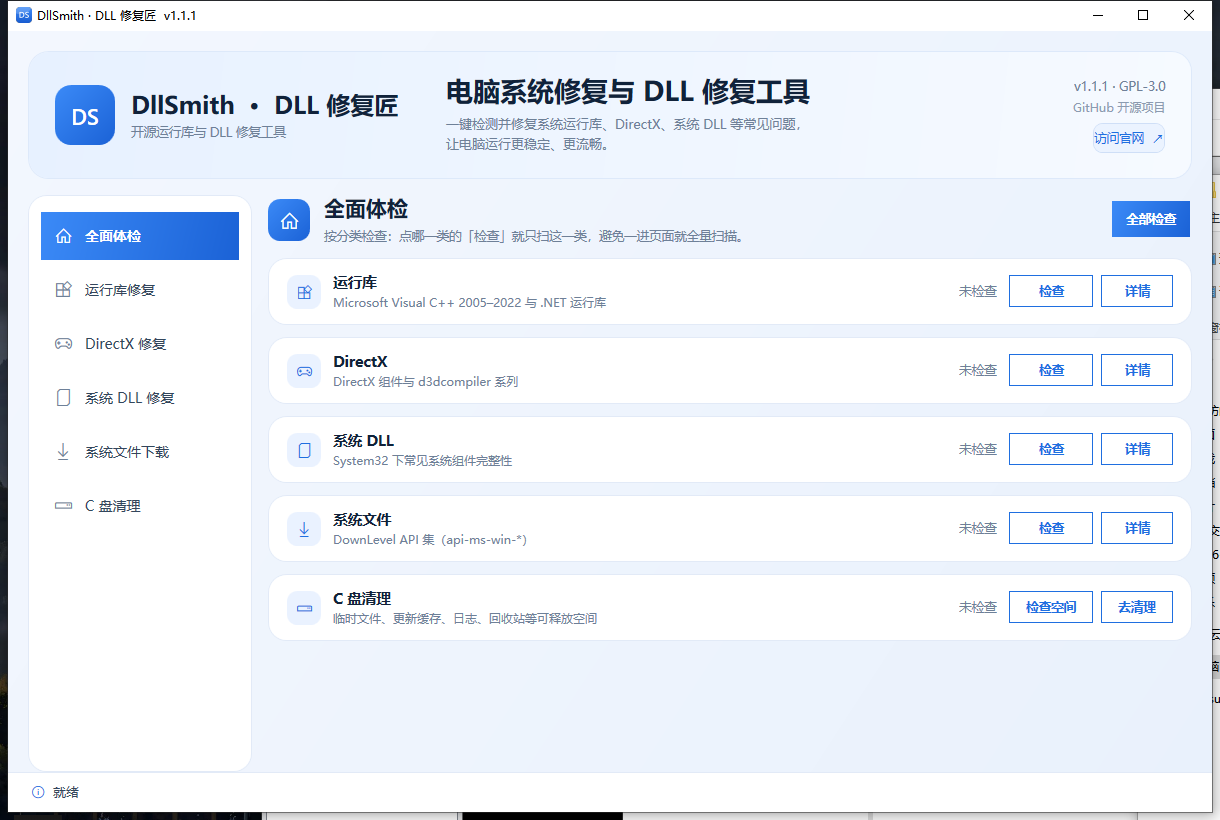
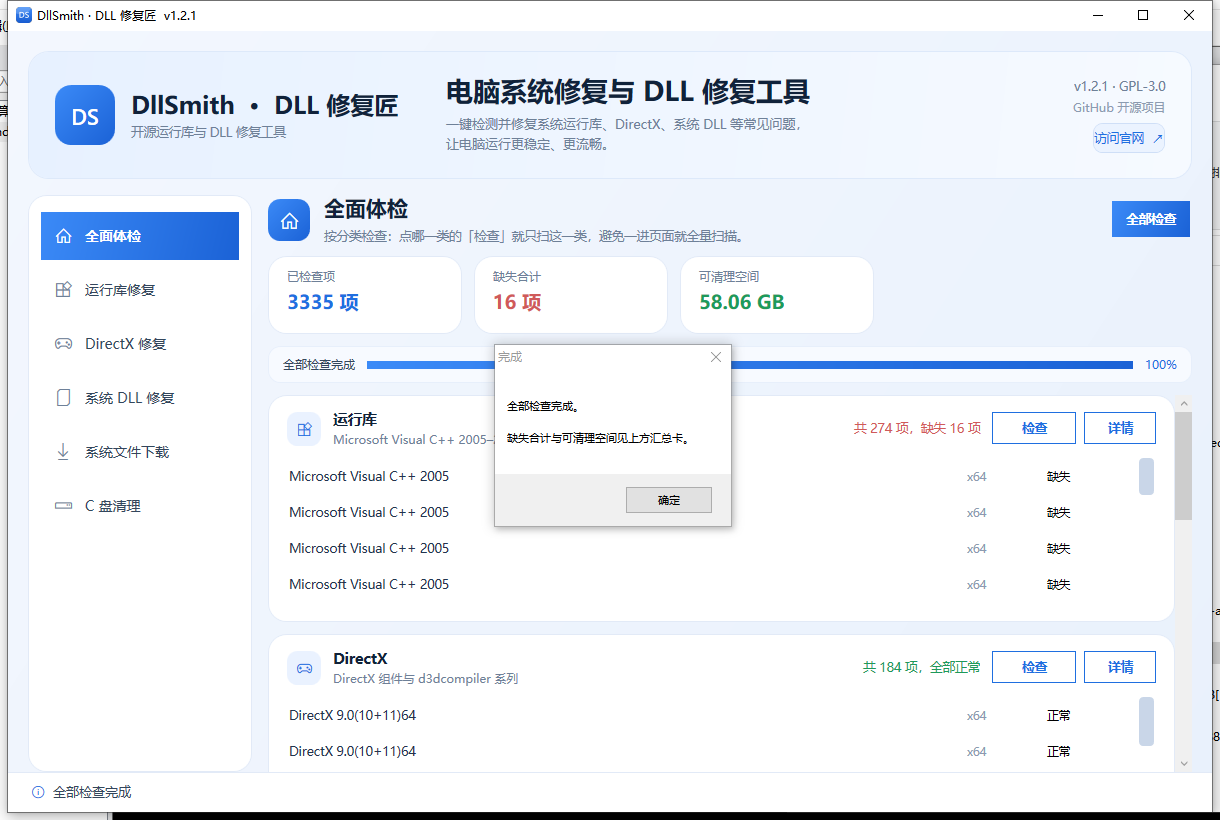
feat: 1.2.1 全面体检汇总卡与全部检查进度条

diff --git a/src/Overview.cs b/src/Overview.cs
@@ -1,12 +1,11 @@
 // ============================================================================
 //  DllSmith — 全面体检（分类总览）
 //  文件：Overview.cs
-//  目的：不再一进页面就全量扫描。按分类（运行库 / DirectX / 系统 DLL / 系统文件 /
-//        C 盘清理）分块展示，点哪个「检查」就只查那一类；结果就地展开。
+//  要点：不自动扫描；分类卡片各自「检查」；顶部汇总（检查项 / 缺失 / 可释放）
+//        + 全部检查时的总进度条。
 // ============================================================================
 using System;
 using System.Collections.Generic;
-using System.Linq;
 using System.Threading;
 using System.Windows;
 using System.Windows.Controls;
@@ -19,14 +18,13 @@ namespace DllFix.Ui
 {
     public class OverviewPage : UserControl, IProgressHost
     {
-        // 单个分类
         private class Section
         {
             public string Title;
             public string Glyph;
             public string Desc;
-            public Func<List<CatalogItem>> Loader;   // null = C 盘清理（特殊处理）
-            public int PageIndex = -1;               // 「详情」跳转的页面序号
+            public Func<List<CatalogItem>> Loader;   // null = C 盘清理
+            public int PageIndex = -1;
 
             public Border Card;
             public TextBlock Status;
@@ -34,6 +32,8 @@ namespace DllFix.Ui
             public Button GoBtn;
             public ListBox List;
             public bool Busy;
+            public bool Checked;
+            public bool Checking;
             public int Missing;
             public int Total;
             public long CleanBytes;
@@ -41,6 +41,12 @@ namespace DllFix.Ui
 
         private readonly List<Section> _sections = new List<Section>();
         private readonly Button _all = new Button();
+        private readonly ProgressBar _bar = new ProgressBar();
+        private readonly TextBlock _barText = new TextBlock();
+        private readonly Border _barHost = new Border();
+        private readonly TextBlock _sumTotal = new TextBlock();
+        private readonly TextBlock _sumMissing = new TextBlock();
+        private readonly TextBlock _sumFree = new TextBlock();
         private bool _busyAll;
 
         public event Action<string, int, bool> StatusChanged;
@@ -49,6 +55,7 @@ namespace DllFix.Ui
         public OverviewPage()
         {
             Build();
+            UpdateSummary();
         }
 
         private void Report(string text, int percent, bool busy)
@@ -66,8 +73,10 @@ namespace DllFix.Ui
         private void Build()
         {
             Grid root = new Grid();
-            root.RowDefinitions.Add(new RowDefinition { Height = GridLength.Auto });
-            root.RowDefinitions.Add(new RowDefinition());
+            root.RowDefinitions.Add(new RowDefinition { Height = GridLength.Auto });   // 页头
+            root.RowDefinitions.Add(new RowDefinition { Height = GridLength.Auto });   // 汇总卡
+            root.RowDefinitions.Add(new RowDefinition { Height = GridLength.Auto });   // 进度条
+            root.RowDefinitions.Add(new RowDefinition());                              // 分类列表
 
             // 页头
             Grid head = new Grid();
@@ -111,8 +120,63 @@ namespace DllFix.Ui
             _all.Click += delegate { CheckAll(); };
             Grid.SetColumn(_all, 1);
             head.Children.Add(_all);
-            head.Margin = new Thickness(0, 0, 0, 14);
+            head.Margin = new Thickness(0, 0, 0, 12);
             root.Children.Add(head);
+
+            // 汇总卡
+            StackPanel stats = new StackPanel { Orientation = Orientation.Horizontal, Margin = new Thickness(0, 0, 0, 12) };
+            stats.Children.Add(StatCard("已检查项", _sumTotal, Color.FromRgb(0x1F, 0x6F, 0xE0)));
+            stats.Children.Add(StatCard("缺失合计", _sumMissing, Color.FromRgb(0xD0, 0x5A, 0x5A)));
+            stats.Children.Add(StatCard("可清理空间", _sumFree, Color.FromRgb(0x1E, 0x9A, 0x5A)));
+            Grid.SetRow(stats, 1);
+            root.Children.Add(stats);
+
+            // 进度条（仅检查时显示）
+            _barHost.Background = new SolidColorBrush(Color.FromRgb(0xF7, 0xFA, 0xFF));
+            _barHost.BorderBrush = new SolidColorBrush(Color.FromRgb(0xE7, 0xEF, 0xFB));
+            _barHost.BorderThickness = new Thickness(1);
+            _barHost.CornerRadius = new CornerRadius(12);
+            _barHost.Padding = new Thickness(14, 10, 14, 10);
+            _barHost.Margin = new Thickness(0, 0, 0, 12);
+            _barHost.Visibility = Visibility.Collapsed;
+
+            Grid pg = new Grid();
+            pg.ColumnDefinitions.Add(new ColumnDefinition { Width = GridLength.Auto });
+            pg.ColumnDefinitions.Add(new ColumnDefinition());
+            pg.ColumnDefinitions.Add(new ColumnDefinition { Width = GridLength.Auto });
+
+            _barText.Text = "准备检查…";
+            _barText.FontSize = 12;
+            _barText.Foreground = Theme.TextBody;
+            _barText.VerticalAlignment = VerticalAlignment.Center;
+            _barText.Margin = new Thickness(0, 0, 12, 0);
+            pg.Children.Add(_barText);
+
+            _bar.Height = 8;
+            _bar.Minimum = 0;
+            _bar.Maximum = 100;
+            _bar.Value = 0;
+            _bar.Foreground = Theme.PrimarySoft;
+            _bar.Background = new SolidColorBrush(Color.FromRgb(0xE6, 0xEC, 0xF6));
+            _bar.BorderThickness = new Thickness(0);
+            _bar.VerticalAlignment = VerticalAlignment.Center;
+            Grid.SetColumn(_bar, 1);
+            pg.Children.Add(_bar);
+
+            TextBlock pct = new TextBlock();
+            pct.Name = "pct";
+            pct.Text = "0%";
+            pct.FontSize = 12;
+            pct.Foreground = Theme.Primary;
+            pct.VerticalAlignment = VerticalAlignment.Center;
+            pct.Margin = new Thickness(12, 0, 0, 0);
+            _barPct = pct;
+            Grid.SetColumn(pct, 2);
+            pg.Children.Add(pct);
+
+            _barHost.Child = pg;
+            Grid.SetRow(_barHost, 2);
+            root.Children.Add(_barHost);
 
             // 分类列表
             ScrollViewer sv = new ScrollViewer();
@@ -146,10 +210,40 @@ namespace DllFix.Ui
             AddSection(host, "C 盘清理", "\uEDA2",
                 "临时文件、更新缓存、日志、回收站等可释放空间", 5, null);
 
-            Grid.SetRow(sv, 1);
+            Grid.SetRow(sv, 3);
             root.Children.Add(sv);
 
             Content = root;
+        }
+
+        private TextBlock _barPct;
+
+        private Border StatCard(string title, TextBlock value, Color accent)
+        {
+            Border card = new Border();
+            card.Width = 194;
+            card.Height = 78;
+            card.Margin = new Thickness(0, 0, 12, 0);
+            card.Background = Theme.Card;
+            card.CornerRadius = new CornerRadius(18);
+            card.BorderBrush = Theme.CardLine;
+            card.BorderThickness = new Thickness(1);
+            card.Padding = new Thickness(18, 12, 18, 12);
+
+            StackPanel sp = new StackPanel();
+            TextBlock t = new TextBlock();
+            t.Text = title;
+            t.FontSize = 12;
+            t.Foreground = Theme.TextMuted;
+            value.Text = "—";
+            value.FontSize = 19;
+            value.FontWeight = FontWeights.SemiBold;
+            value.Foreground = new SolidColorBrush(accent);
+            value.Margin = new Thickness(0, 6, 0, 0);
+            sp.Children.Add(t);
+            sp.Children.Add(value);
+            card.Child = sp;
+            return card;
         }
 
         private void AddSection(StackPanel host, string title, string glyph, string desc, int pageIndex,
@@ -311,23 +405,70 @@ namespace DllFix.Ui
             return (Style)XamlReader.Parse(xaml);
         }
 
+        // ── 汇总 ────────────────────────────────────────────────────────────
+        private void UpdateSummary()
+        {
+            if (!Dispatcher.CheckAccess())
+            {
+                Dispatcher.BeginInvoke(new Action(UpdateSummary));
+                return;
+            }
+            int total = 0, missing = 0;
+            long free = 0;
+            foreach (Section s in _sections)
+            {
+                if (!s.Checked) continue;
+                total += s.Total;
+                missing += s.Missing;
+                free += s.CleanBytes;
+            }
+            _sumTotal.Text = total + " 项";
+            _sumMissing.Text = missing + " 项";
+            _sumFree.Text = CleanEngine.FormatSize(free);
+        }
+
+        private void SetProgress(bool visible, int percent, string text)
+        {
+            if (!Dispatcher.CheckAccess())
+            {
+                Dispatcher.BeginInvoke(new Action(delegate { SetProgress(visible, percent, text); }));
+                return;
+            }
+            _barHost.Visibility = visible ? Visibility.Visible : Visibility.Collapsed;
+            if (!visible) return;
+            if (percent < 0) { _bar.IsIndeterminate = true; }
+            else { _bar.IsIndeterminate = false; _bar.Value = percent; }
+            if (_barPct != null) _barPct.Text = percent < 0 ? "…" : percent + "%";
+            if (text != null) _barText.Text = text;
+        }
+
         // ── 检查 ────────────────────────────────────────────────────────────
         private void CheckAll()
         {
             if (_busyAll) return;
             _busyAll = true;
             _all.IsEnabled = false;
+            List<Section> list = new List<Section>(_sections);
+
             Thread t = new Thread(delegate()
             {
-                foreach (Section s in _sections)
+                for (int i = 0; i < list.Count; i++)
                 {
+                    Section s = list[i];
+                    Report(string.Format("正在检查 {0}/{1}：{2}", i + 1, list.Count, s.Title), 0, true);
+                    SetProgress(true, (int)(i * 100.0 / list.Count), string.Format("正在检查：{0}（{1}/{2}）", s.Title, i + 1, list.Count));
                     RunCheck(s);
+                    SetProgress(true, (int)((i + 1) * 100.0 / list.Count),
+                        string.Format("已完成：{0}（{1}/{2}）", s.Title, i + 1, list.Count));
                 }
                 Dispatcher.BeginInvoke(new Action(delegate
                 {
                     _busyAll = false;
                     _all.IsEnabled = true;
+                    UpdateSummary();
+                    SetProgress(true, 100, "全部检查完成");
                     Report("全部检查完成", 0, false);
+                    MessageBox.Show("全部检查完成。\n\n缺失合计与可清理空间见上方汇总卡。", "完成");
                 }));
             });
             t.IsBackground = true;
@@ -337,6 +478,7 @@ namespace DllFix.Ui
         private void CheckSection(Section s)
         {
             if (s.Busy) return;
+            SetProgress(true, -1, "正在检查：" + s.Title);
             Thread t = new Thread(delegate() { RunCheck(s); });
             t.IsBackground = true;
             t.Start();
@@ -347,17 +489,16 @@ namespace DllFix.Ui
             s.Busy = true;
             Dispatcher.BeginInvoke(new Action(delegate
             {
+                s.Checking = true;
                 s.Status.Text = "检查中…";
                 s.Status.Foreground = Theme.Primary;
                 s.CheckBtn.IsEnabled = false;
-                Report("正在检查：" + s.Title, 0, true);
             }));
 
             try
             {
                 if (s.Loader == null)
                 {
-                    // C 盘清理：只做空间统计，不删任何东西
                     List<CleanItem> caches = CleanEngine.ScanCaches(null);
                     long bytes = 0;
                     foreach (CleanItem it in caches) bytes += it.Bytes;
@@ -367,6 +508,7 @@ namespace DllFix.Ui
 
                     Dispatcher.BeginInvoke(new Action(delegate
                     {
+                        s.Checked = true;
                         s.Status.Text = "可释放 " + CleanEngine.FormatSize(bytes);
                         s.Status.Foreground = new SolidColorBrush(Color.FromRgb(0x1E, 0x9A, 0x5A));
                         s.List.ItemsSource = caches;
@@ -374,6 +516,8 @@ namespace DllFix.Ui
                         s.List.Height = 150;
                         s.CheckBtn.IsEnabled = true;
                         s.Busy = false;
+                        UpdateSummary();
+                        if (!_busyAll) SetProgress(false, 0, null);
                     }));
                     return;
                 }
@@ -413,6 +557,7 @@ namespace DllFix.Ui
 
                 Dispatcher.BeginInvoke(new Action(delegate
                 {
+                    s.Checked = true;
                     s.Missing = miss;
                     s.Total = total;
                     if (miss > 0)
@@ -430,7 +575,8 @@ namespace DllFix.Ui
                     s.List.Height = 150;
                     s.CheckBtn.IsEnabled = true;
                     s.Busy = false;
-                    Report(s.Title + " 检查完成", 0, false);
+                    UpdateSummary();
+                    if (!_busyAll) SetProgress(false, 0, null);
                 }));
             }
             catch (Exception ex)
@@ -442,6 +588,7 @@ namespace DllFix.Ui
                     s.Status.Foreground = new SolidColorBrush(Color.FromRgb(0xD0, 0x5A, 0x5A));
                     s.CheckBtn.IsEnabled = true;
                     s.Busy = false;
+                    if (!_busyAll) SetProgress(false, 0, null);
                 }));
             }
         }

diff --git a/src/Core.cs b/src/Core.cs
@@ -147,7 +147,7 @@ namespace DllFix.Core
         public const string ProductName = "DllSmith";
         public const string ChineseName = "DLL 修复匠";
         public const string Tagline = "开源运行库与 DLL 修复工具";
-        public const string Version = "1.2.0";
+        public const string Version = "1.2.1";
         public const string License = "GPL-3.0";
         public const string SiteUrl  = "http://123.57.94.141:8787/download";
         public const string BuildTag = "opensource";
